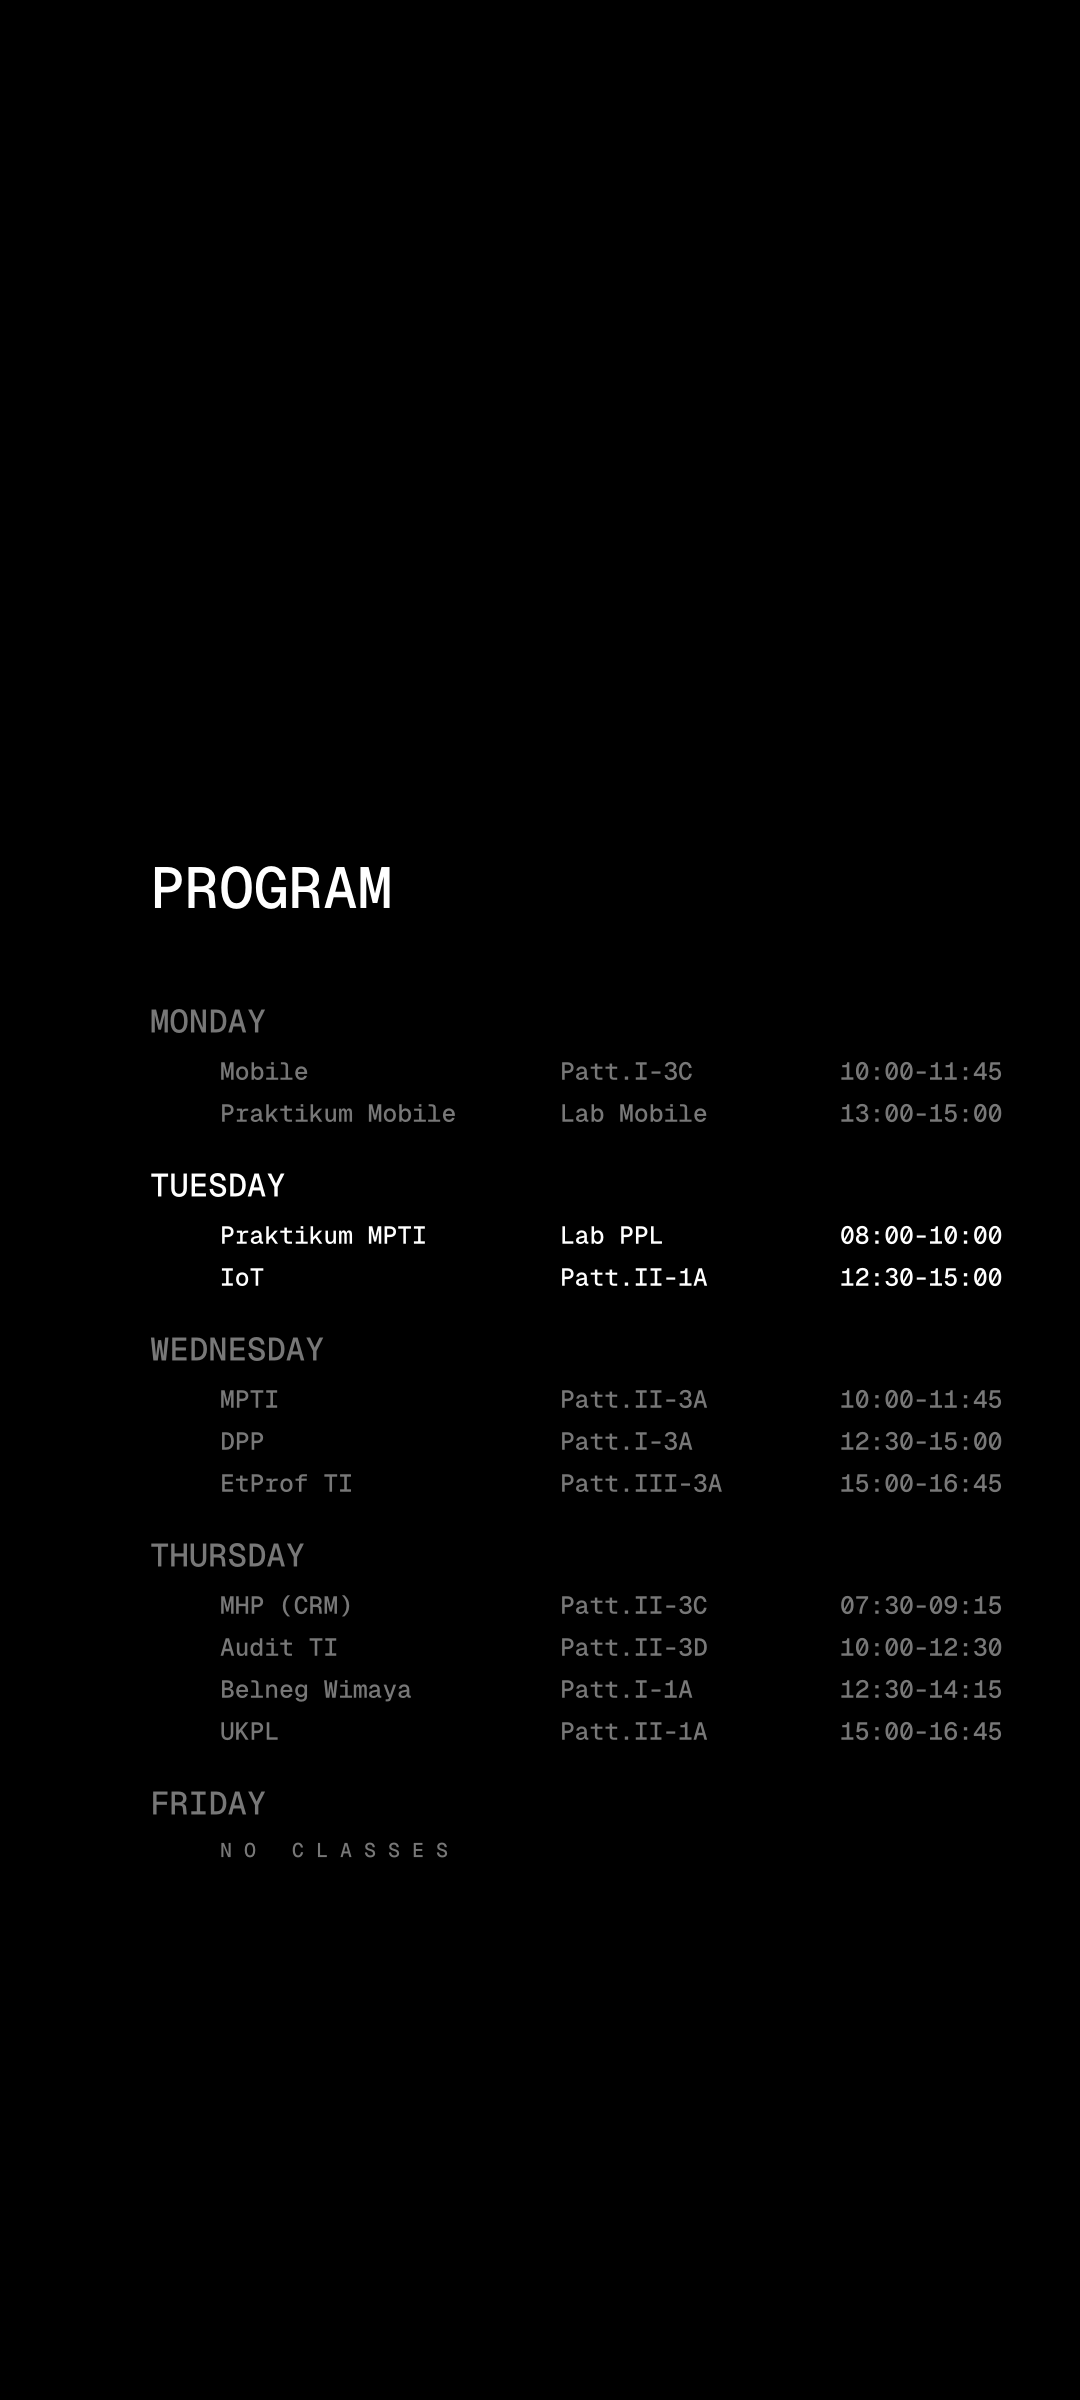
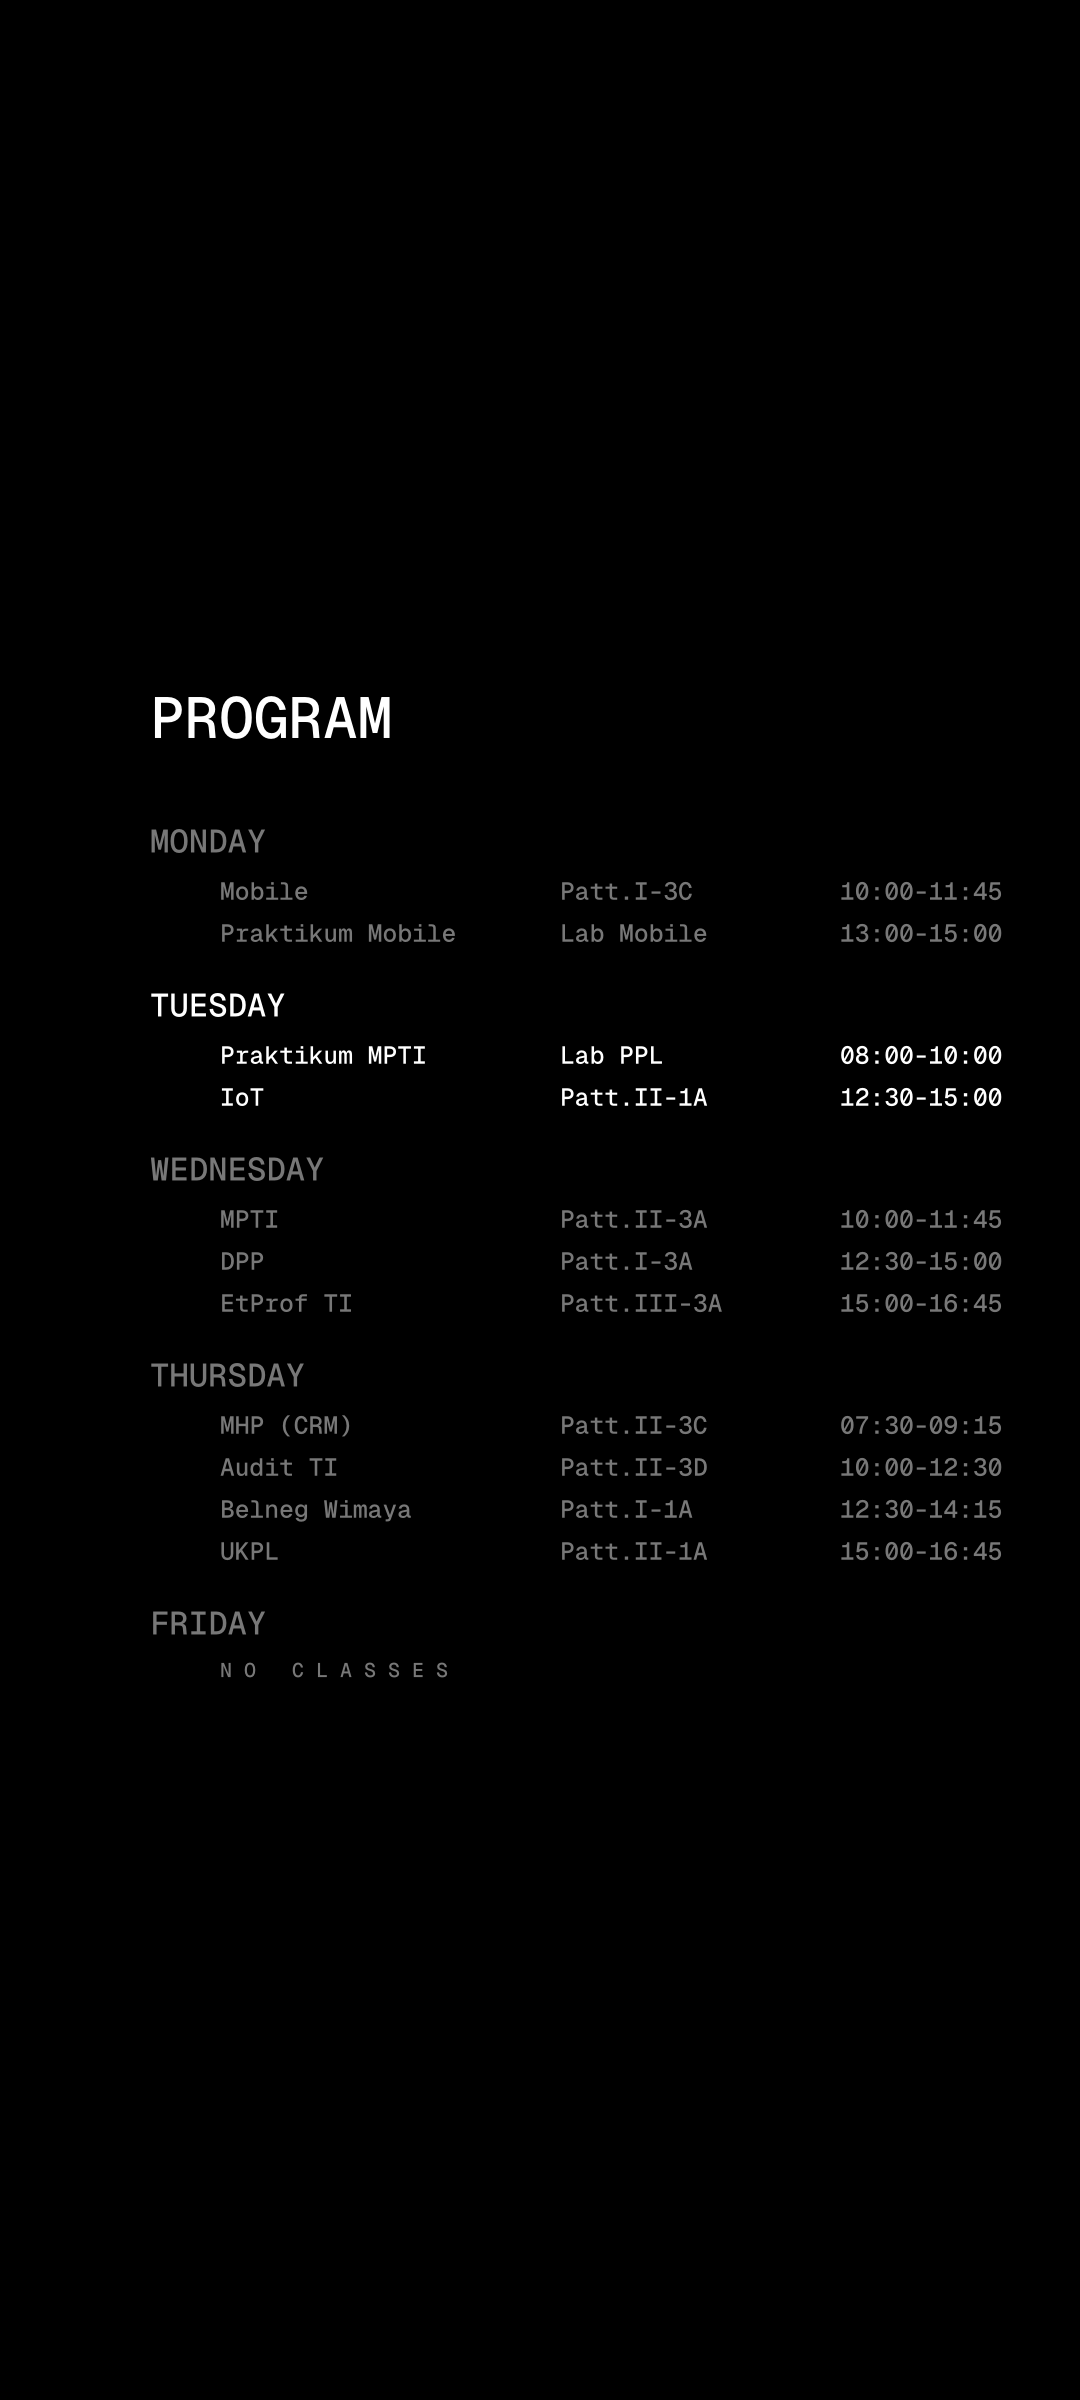
fix(layout): raise vertical offset slightly to Y 680/820 and bump version to 0.2.3

diff --git a/src/main.rs b/src/main.rs
@@ -69,10 +69,10 @@ fn main() -> Result<(), Box<dyn std::error::Error>> {
     let current_day = now.format("%A").to_string(); // Contoh: "Monday"
     let current_minutes = now.hour() * 60 + now.minute();
 
-    // Judul "PROGRAM" diturunkan ke Y: 850
-    components.push(Components::Text(150, 850, 75, "PROGRAM", color_white, None));
+    // Judul "PROGRAM" dinaikkan sedikit ke Y: 680
+    components.push(Components::Text(150, 680, 75, "PROGRAM", color_white, None));
 
-    let mut current_y = 1000;
+    let mut current_y = 820;
 
     for daily in schedule {
         let day_upper = daily.day.to_uppercase();

diff --git a/changelog.md b/changelog.md
@@ -1,3 +1,13 @@
+# 0.2.3
+
+- Menaikkan posisi vertikal sedikit ke atas (sweet spot)
+- Posisi judul PROGRAM di Y: 680 dan jadwal dimulai dari Y: 820
+
+---
+
+- Fine-tuned vertical offset slightly upward (sweet spot)
+- Header PROGRAM at Y: 680, schedule items start at Y: 820
+
 # 0.2.2
 
 - Menurunkan posisi vertikal (Y offset) jadwal lebih jauh ke bawah agar tidak bertabrakan dengan jam/widget lockscreen
